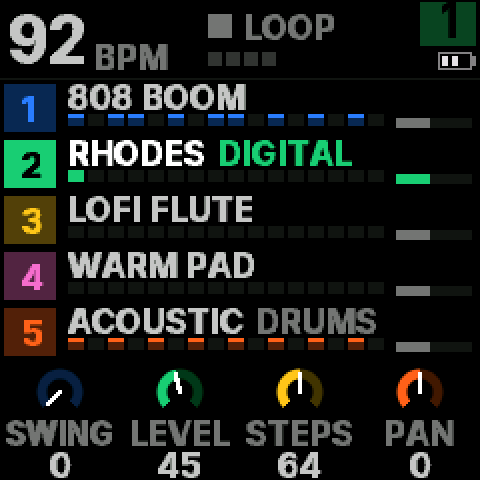
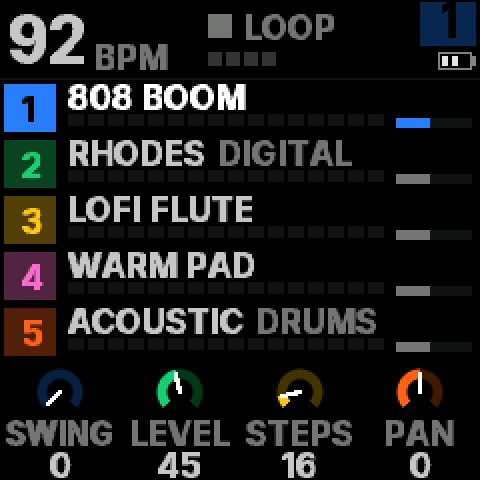
Add guide screens for held steps, chains, song lines, SAVE and GLO pages
The empty-project and REC READY screens are retaken: the old ones still
showed the demo's notes.

diff --git a/docs/guide.html b/docs/guide.html
@@ -565,7 +565,7 @@ footer{color:var(--dim);font-size:13.5px;padding:28px 0 0}
     <li class="step"><div class="body"><p><b>Hold <kbd>HOME</kbd> and press <span class="wk">key 3</span></b> (NEW). The screen asks you to confirm.</p></div>
[1 lines of base64/hex data omitted]
     <li class="step"><div class="body"><p><b>Do it again</b>: hold <kbd>HOME</kbd>, press <span class="wk">key 3</span>. You now have an empty project with a sound on each track.</p></div>
[2 lines of base64/hex data omitted]
     <li class="step done nofig"><div class="body"><p><b>Set the tempo.</b> On TRACKS, turn <span class="kn">SELECT</span>. Then <a href="#sounds">pick sounds</a> and <a href="#record">record a loop</a>.</p></div></li>
   </ol>
   <div class="note warn"><b>The demo is replaced</b><p>The FM-1 keeps one project. Starting a new one replaces it after you confirm. To keep the demo, save it as a file first with the <a href="#backup">web editor</a>.</p></div>
@@ -605,7 +605,7 @@ footer{color:var(--dim);font-size:13.5px;padding:28px 0 0}
   <h3>Start from silence</h3>
   <p>Press <kbd>REC</kbd> while stopped and SLOOP waits for you (<span class="lcd">REC READY</span>). Your first note starts the loop and becomes step 1.</p>
   <div class="split">
[2 lines of base64/hex data omitted]
     <div class="tbl" style="margin-top:0"><table>
       <thead><tr><th>Knob</th><th>Sets</th></tr></thead>
       <tbody>

diff --git a/host/twin.c b/host/twin.c
@@ -2889,6 +2889,27 @@ static void sc_guide(void)
     for (int i = 0; i < 4; i++) { tapkey(white_key[4 + i * 2]); wait_ms(250); }
     wait_ms(300); gshot("g-rec-notes");
     tap(B_REC); wait_ms(300); tap(B_PLAY); wait_ms(600);
+    /* a step held in STEPS: its note, velocity, ratchet, nudge, and the lock ALGORITHM picks (a knob turned: the
+     * release keeps the step) */
+    go_trk(0); tap(B_HOME); wait_ms(200); press(B_SEQ); wait_ms(600); keydown(white_key[0]); wait_ms(600);
+    turn(ENC_ALGORITHM, 1); wait_ms(200); turn(ENC_ALGORITHM, -1); wait_ms(300); gshot("g-step-held");
+    keyup(white_key[0]); wait_ms(200); release(B_SEQ); wait_ms(300);
+    /* the sound's SAVE pages: PRESETS, USER, PATTERNS, TOOLS */
+    first_page(B_EDIT); tap(B_SAVE); wait_ms(300); gshot("g-save-presets");
+    next_page(); gshot("g-save-user"); next_page(); gshot("g-save-patterns"); next_page(); gshot("g-save-tools");
+    /* GLO's pages after GLOBAL and MASTER */
+    first_page(B_GLO); next_page(); next_page(); gshot("g-glo-system"); next_page(); gshot("g-glo-drums");
+    next_page(); gshot("g-texture"); next_page(); gshot("g-texture2"); next_page(); gshot("g-midi"); next_page(); gshot("g-midi2");
+    next_page(); gshot("g-glo-rec"); tap(B_HOME); wait_ms(200);
+    /* the SONG pages, then a chain: SAVE held, patterns 1 and 2 tapped */
+    {   /* (a song of four lines: an intro, a verse, a chorus, an outro) */
+        static const int PAT[4] = { 0, 0, 1, 0 }, BARS[4] = { 4, 8, 8, 4 };
+        seq_song_set_count(&Q, 4);
+        for (int i = 0; i < 4; i++) { seq_song_set_pat(&Q, i, -1, PAT[i]); seq_song_set_len(&Q, i, BARS[i]); }
+    }
+    tap(B_SAVE); wait_ms(400); turn(ENC_KNOB1, 2); wait_ms(300); gshot("g-song-lines"); tap(B_HOME); wait_ms(300);
+    press(B_SAVE); wait_ms(600); tapkey(white_key[0]); wait_ms(250); tapkey(white_key[1]); wait_ms(500); gshot("g-chain");
+    release(B_SAVE); wait_ms(300);
     /* a new project (HOME held + key 3, twice), REC while stopped: REC READY */
     press(B_HOME); wait_ms(900); keydown(white_key[2]); wait_ms(200); keyup(white_key[2]); wait_ms(300); release(B_HOME); wait_ms(300); gshot("g-new-ask");
     press(B_HOME); wait_ms(900); keydown(white_key[2]); wait_ms(200); keyup(white_key[2]); wait_ms(300); release(B_HOME); wait_ms(600); gshot("g-new");
